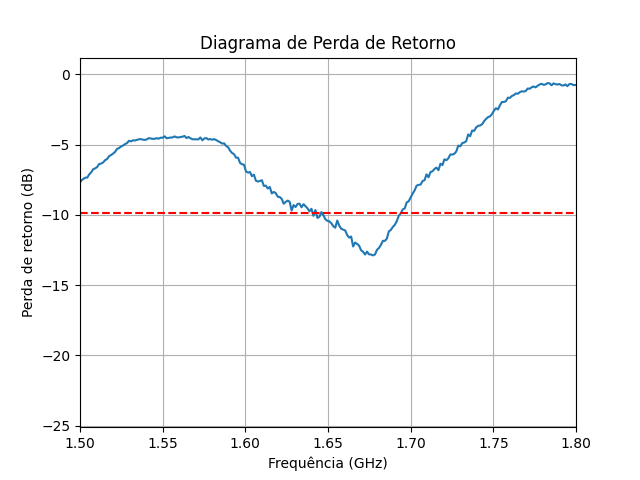
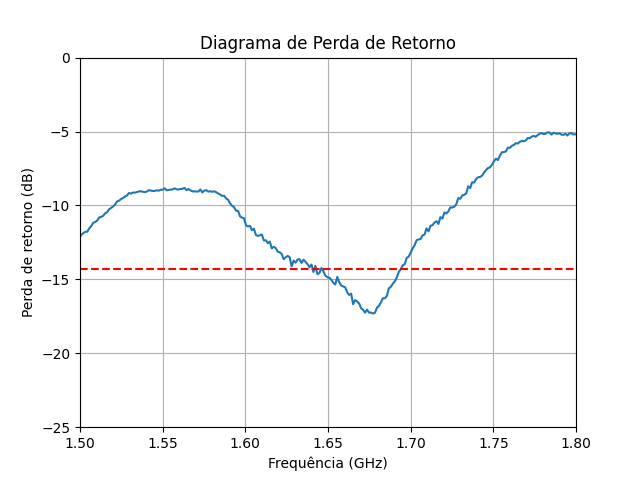
feature - added antenna results

diff --git a/Docs/TG_IAR_Dissertacao/postextual/apendices.tex b/Docs/TG_IAR_Dissertacao/postextual/apendices.tex
@@ -58,5 +58,155 @@ Em 8:28, novamente o \textit{wrap} do azimute é demonstrado ao desengajar um si
 Em 8:45, é possível perceber o que ocorre quando há uma interrupção no rastreio em uma região onde a trajetória sofre grande aceleração (por estar próxima ao zênite), mostrando que o sistem diverge rapidamente da rota original, tanto em azimute quanto em elevação.
 O sistema realiza mais um retorno à posição inicial em 9:39 e permanece por mais tempo sem receber dados, posicionado com valores de azimute e elevação igual a zero e em 10:08 o sistema é completamente desligado das informações do aplicativo até o vídeo terminar.
 
+% ----------------------------------------------------------
+\chapter{Levantamento do Parâmetros do Filtro SAWBird+ GOES}\label{cap:apendice_filtro_saw}
+% ----------------------------------------------------------
+Segundo a folha de dados do filtro SAWBird+ GOES \cite{nooelec_sawbird_goes}, seu ganho máximo é da faixa de $38 \text{ dB}$ em $1694 \text{ MHz}$ com uma potência máxima de saída de $20 \text{ dBm}$ e uma largura de banda de $70 \text{ MHz}$.
+Sabendo disso, foi utilizado um gerador de RF configurado para a frequência de $1,7 \text{ GHz}$ e amplitude de $-25 \text{ dBm}$. Para testar que o gerador estava com a configuração correta em sua saída, foi utilizado um analisador de espectro para medir a potência recebida.
+Com a validação da configuração do experimento correta, com amplitude de $-25,2 \text{ dBm}$ (visto na Figura {\ref{fig:saw_gerador_conec_direta_visor}}), o filtro SAW foi conectado na linha de transmissão (vide Figura \ref{fig:setup_filtro_desligado_total}).
+Assim como o esperado, o filtro desligado faz com que o sinal passante não seja muito maior que o piso de ruído do sistema, porém com uma pequena passagem do sinal ainda visível (vide Figura \ref{fig:setup_filtro_desligado}).
+
+O amplificador é então ligado através de sua entrada USB-C para verficar o ganho de seu circuito ativo (Figura \ref{fig:setup_filtro_ligado}).
+É esperado um ganho próximo ao teórico, calculado pela diferença entre a potência de entrada com o filtro ligado e com a saída do gerador.
+Para o experimento, a saída do filtro ativo tem o ganho de $12,6 \text{ dB}$ (vide Figura \ref{fig:setup_filtro_ligado_visor}), fazendo com que o ganho total seja de $G_{dB} = 12,6\text{ dBm} - (-25\text{ dBm}) = 37,5 \text{ dB}$, que é próximo do valor máximo descrito na folha de dados.
+
+Para o cálculo da banda de passagem, foi alterada a frequência do gerador até encontrar uma região que tenha um ganho de $-3 \text{ dB}$ abaixo do ganho máximo do sistema, que seria aproximadamente $9,6 \text{ dBm}$.
+A região equivalente à banda inferior foi encontrada quando a frequência estava por volta de $1653 \text{ MHz}$ (vide Figura \ref{fig:filtro_saw_banda_baixa}), enquanto a maior frequência da banda foi encontrada em $1724 \text{ MHz}$ (conforme observado na Figura \ref{fig:filtro_saw_banda_alta}).
+A largura de banda do filtro é calculada como sendo de $BW = 1724 - 1653 = 71 \text{ MHZ}$, que é bem próxima da banda estabelecida pela folha de dados. Além disso, é possível determinar a frequência central do filtro como sendo de $f_{c} = \frac{1724+1653}{2} = 1688,5 \text{ MHz}$, estando bem próximo à frequência especificada.
+
+Assim, é possível dizer que o filtro está se comportando de maneira nominal aos parâmetros designados pela empresa fabricante, garantindo que este funcione de acordo com o esperado.
+
+\begin{figure}[htbp]
+    \centering
+    \includegraphics[width=1\textwidth]{figs/conec_direta_gerador_visor.jpeg}
+    \caption{Foto do sinal observado no analisador de espectro quando o gerador foi conectado diretamente à entrada.}
+    \legend{Fonte: Autor(2026)}
+    \label{fig:saw_gerador_conec_direta_visor}
+\end{figure}
+\begin{figure}[htbp]
+    \centering
+    \includegraphics[width=1\textwidth]{figs/setup_filtro_desligado_total.jpeg}
+    \caption{Configuração de gerador, analisador e filtro SAW desligado.}
+    \legend{Fonte: Autor(2026)}
+    \label{fig:setup_filtro_desligado_total}
+\end{figure}
+\begin{figure}[htbp]
+    \centering
+    \includegraphics[width=1\textwidth]{figs/setup_filtro_desligado.jpeg}
+    \caption{Medição do sistema com o filtro SAW desligado.}
+    \legend{Fonte: Autor(2026)}
+    \label{fig:setup_filtro_desligado}
+\end{figure}
+\begin{figure}[htbp]
+    \centering
+    \includegraphics[width=1\textwidth]{figs/setup_amplificador_ligado.jpeg}
+    \caption{Filtro ligado por USB-C.}
+    \legend{Fonte: Autor(2026)}
+    \label{fig:setup_filtro_ligado}
+\end{figure}
+\begin{figure}[htbp]
+    \centering
+    \includegraphics[width=1\textwidth]{figs/visor_amplificador_ligado.jpeg}
+    \caption{Medição para o amplificador ligado em $1,7 \text{ GHz}$.}
+    \legend{Fonte: Autor(2026)}
+    \label{fig:setup_filtro_ligado_visor}
+\end{figure}
+\begin{figure}[htbp]
+    \centering
+    \includegraphics[width=1\textwidth]{figs/filtro_banda_baixa.jpeg}
+    \caption{Medição para o amplificador ligado para sua banda inferior, de $1653 \text{ MHz}$.}
+    \legend{Fonte: Autor(2026)}
+    \label{fig:filtro_saw_banda_baixa}
+\end{figure}
+\begin{figure}[htbp]
+    \centering
+    \includegraphics[width=1\textwidth]{figs/filtro_banda_alta.jpeg}
+    \caption{Medição para o amplificador ligado para sua banda superior, de $1724 \text{ MHz}$.}
+    \legend{Fonte: Autor(2026)}
+    \label{fig:filtro_saw_banda_alta}
+\end{figure}
+% ----------------------------------------------------------
+\chapter{Levantamento do Padrão de Radiação da Antena Helicone}\label{cap:apendice_teste_diagrama radiação}
+% ----------------------------------------------------------
+Para o teste realizado, os equipamentos utilizados foram: gerador de frequência de RF; analisador de espectro; antena helicone (confeccionada para este trabalho); antena Yagi projetada em uma PCB; e filtro SAWBird+ GOES.
+Como ferramentas, foram utilizados um tripé de câmera, um barbante, e um transferidor. As conexões foram feitas utilizando cabos SMA-SMA e adaptadores SMA-N para o encaixe nos equipamentos. Todos os equipamentos podem ser vistos na Figura \ref{fig:todos_equipamentos_diagrama_radiacao}.
+
+O gerador de RF foi configurado para a frequência de $1,7 \text{ GHz}$ e potência de $-30 \text{ dBm}$ (vide Figura \ref{fig:config_gerador_filtro}). O amplificador foi ligado para amplificar a saída do sinal, pois o gerador não estava mantendo sua saída constante acima de $-20 \text{ dBm}$.
+Os suportes das antenas foram ajustados para se manterem no mesmo plano horizontal, garantindo que a seção do plano vertical da antena estivesse centralizada na antena de teste (conforme demonstrado na Figura \ref{fig:alinhamento_antena_plano_horizontal}).
+Após isso, foi feita uma medição desde a região mais distante da antena até o dipolo da antena Yagi (\ref{fig:medicao_dist_antenas}). A distância entre os elementos é de aproximadamente $57 \text{ cm}$, que é maior que a distância de campo distante discutida no Capítulo \ref{sec:antena}.
+
+O experimento iniciou na medida de $90^{\circ}$ do transferidor (que posteriormente foi subtraída do ângulo medido).
+A movimentação horária da Yagi em relação à direção traseira pra a frontal da helicone representa seu lado direito, equanto a movimentação anti-horária representa seu lado esquerdo.
+O lado direito foi considerado como ter angulação negativa, enquanto o lado esquerdo possui angulação positiva. Os resultados obtidos podem ser vistos na Tabela \ref{tab:dados_diag_rad}.
+A diferença entre as medições podem ter sido geradas pela redução da distância da corda do lado direito para conseguir efetuar as medições próximas à parede do laboratório.
+
+\begin{figure}[htbp]
+    \centering
+    \includegraphics[width=1\textwidth]{figs/setup_completo_diagrama_rad.jpeg}
+    \caption{Imagem com todos os equipamentos utilizados para o teste.}
+    \legend{Fonte: Autor(2026)}
+    \label{fig:todos_equipamentos_diagrama_radiacao}
+\end{figure}
+\begin{figure}[htbp]
+    \centering
+    \includegraphics[width=1\textwidth]{figs/gerador_visor_teste_antena.jpeg}
+    \caption{Configuração do gerador para o levantamento do diagrama de radiação.}
+    \legend{Fonte: Autor(2026)}
+    \label{fig:config_gerador_filtro}
+\end{figure}
+\begin{figure}[htbp]
+    \centering
+    \includegraphics[width=1\textwidth]{figs/alinhamento_vertical_antenas.jpeg}
+    \caption{Alinhamento das antenas no mesmo plano horizontal.}
+    \legend{Fonte: Autor(2026)}
+    \label{fig:alinhamento_antena_plano_horizontal}
+\end{figure}
+\begin{figure*}[htbp]
+        \subfloat[Início da medição da distância entre as antenas]{%
+            \includegraphics[width=0.8\linewidth]{figs/inicio_medicao_antena.jpeg}%
+            \label{subfig:inicio_medicao}%
+        }\\
+        \subfloat[Final da medição da distância entre as antenas]{%
+            \includegraphics[width=0.8\linewidth]{figs/fim_medicao_antena.jpeg}%
+            \label{subfig:fim_medicao}%
+        }
+        \caption{Medição da distância entre as antenas, de seu início na Figura \ref{subfig:inicio_medicao} até o final na Figura \ref{subfig:fim_medicao}.}
+        \legend{Fonte: Autor (2026)}
+        \label{fig:medicao_dist_antenas}
+\end{figure*}
+
+\begin{table}[htbp]
+\centering
+\caption{Comparação entre \texttt{Lado Esquerdo} e \texttt{Lado Direito} com passo de $\pm5^\circ$.}
+\begin{tabular}{rrrr}
+\toprule
+\textbf{Ângulo ($^\circ$)} & \textbf{\texttt{Lado Esquerdo}} & \textbf{\texttt{Lado Direito}}\\
+\midrule
+0  & $-26.5$ & $-24.9$ \\
+$\pm5$  & $-26.8$ & $-25.3$ \\
+$\pm10$ & $-27.0$ & $-25.6$ \\
+$\pm15$ & $-27.4$ & $-26.4$ \\
+$\pm20$ & $-27.3$ & $-29.2$ \\
+$\pm25$ & $-31.5$ & $-29.5$ \\
+$\pm30$ & $-33.5$ & $-32.3$ \\
+$\pm35$ & $-32.4$ & $-31.6$ \\
+$\pm40$ & $-36.7$ & $-37.2$ \\
+$\pm45$ & $-43.1$ & $-46.2$ \\
+$\pm50$ & $-44.4$ & $-44.0$ \\
+$\pm55$ & $-49.3$ & $-41.1$ \\
+$\pm60$ & $-49.8$ & $-45.2$ \\
+$\pm65$ & $-46.0$ & $-45.3$ \\
+$\pm70$ & $-50.1$ & $-43.3$ \\
+$\pm75$ & $-57.1$ & $-44.3$ \\
+$\pm80$ & $-43.7$ & $-44.5$ \\
+$\pm85$ & $-46.7$ & $-48.8$ \\
+$\pm90$ & $-47.4$ & $-45.4$ \\
+$\pm110$ & $-55.2$ & $-50.2$ \\
+\bottomrule
+\end{tabular}
+\label{tab:dados_diag_rad}
+\end{table}
+
+
 \end{apendicesenv}
 % ---

diff --git a/Docs/TG_IAR_Dissertacao/capitulos/resultados.tex b/Docs/TG_IAR_Dissertacao/capitulos/resultados.tex
@@ -56,9 +56,49 @@ O casamento de impedância é importante para permitir a máxima transferência 
 \section{Caracterização da Antena e do Filtro}\label{sec:carac_antena}
 
 Após a montagem da antena feita na Seção \ref{sec:estrutura}, é de grande importância realizar a caracterização da antena para garantir que ela está funcionando corretamente.
-Para isso, foram utilizados dois equipamentos para a determinação: um Anali
-Essa antena é movida ao redor da helicone a uma distância fixa utilizando uma corda para manter a distância constante e um transferidor para marcar o ângulo da medição. Então, é realizado 
+Para isso, foram utilizados dois equipamentos para a determinação: um analisador de espectro, um gerador de frequência, e um analisador de redes vetorial (VNA).
+Com o analisador e o gerador, foi possível caracterizar o Filtro SAW, com o experimento descrito no Apêndice \ref{cap:apendice_filtro_saw}. O resultado é um filtro de ganho $37,5 \text{ dB}$ e largura de banda $71 \text{ MHz}$ em torno de $1688,5 \text{ MHz}$
 
+Iniciou-se a caracterização da antena a partir da sua perda de retorno (parâmetro $S_{11}$). A escolha de iniciar o teste pela perda de retorno foi intencional para possibilitar a calibração da antena para a faixa inserida.
+A antena foi conectada ao VNA calibrado e foi verificada a perda de retorno da antena. Inicialmente, a perda de retorno para a frequência de $1,7\text{ GHz}$ se encontrava por volta de $-11 \text{ dB}$ e a maior atenuação se encontrava por volta de $1,9\text{ GHz}$.
+Pela discussão feita no Capítulo \ref{sec:antena}, essa característica indicava que a espira estava com uma circunferência muito pequena. Após o ajuste na antena helicoidal, foi possível obter o parâmetro observado na Figura \ref{fig:antena_s1p}.
+
+\begin{figure}[H]
+    \centering
+    \includegraphics[width=0.8\textwidth]{figs/s1p_antenna.png}
+    \caption{Parâmetros $S_{11}$ da antena levantados pelo VNA na faixa de $1,5 \text{ GHz}$ a $1,8 \text{ GHz}$.}
+    \legend{Fonte: Autor (2026)}
+    \label{fig:antena_s1p}
+\end{figure}
+
+Os resultados obtidos demonstam que boa parte do sinal se encontra abaixo da linha de $-15\text{ dB}$, com o ponto de mínimo de $-17,316\text{ dB}$ e largura de banda abaixo de $-14,316\text{ dB}$.
+A perda de retorno pode ser calculada como sendo $RL = 14,316\text{ dB}$ e a relação de onda estacionária é de $ROE = 1,476$ para toda a largura de banda da antena de $514\text{ MHz}$.
+É importante ressaltar que a região de operação da antena (de $1,7\text{ GHz}$) ficou um pouco fora da faixa esperada, podendo ter a sua faixa melhorada com ajustes mais finos à antena.
+Há uma região abaixo de $1,4\text{ GHz}$ e outra acima de $1,9\text{ GHz}$ que possuem uma perda de retorno maior que a da região de interesse, porém mairoes ajustes à antena não foram possíveis durante o teste.
+O equipamento da faculdade estava em manutenção e foi utilizado um VNA pessoal de outro professor que estava com uma agenda curta.
+Houve apenas o tempo de uma hora para os ajustes e não foi possível obter um resultado mais satisfatório com o tempo disponível.
+Em trabalhos futuros, é necessário revisitar o teste para o parâmetro $S_{11}$ para obter um melhor resultado na confecção da antena.
+
+\begin{figure}[H]
+    \centering
+    \includegraphics[width=0.8\textwidth]{figs/diag_rad_antena.png}
+    \caption{Diagrama de radiação da antena normalizado a partir dos dados da Tabela \ref{tab:dados_diag_rad}.}
+    \legend{Fonte: Autor (2026)}
+    \label{fig:diag_rad_antena}
+\end{figure}
+
+Para o experimento do padrão de radiação, o experimento foi realizado de acordo com o Apêndice \ref{cap:apendice_teste_diagrama radiação}.
+Ao normalizar os dados da Tabela \ref{tab:dados_diag_rad} em relação aos seus valores para $0^{\circ}$, é possível obter o diagrama de radiação para a antena, como visto na Figura \ref{fig:diag_rad_antena}.
+O feixe de meia potência para a antena é de $40,04^{\circ}$, o que é mais do que suficiente para a necessidade do trabalho atual.
+
+Uma região peculiar do diagrama de radiação é a radiação observada próxima de $40^{\circ}$ e $320^{\circ}$, pois não há uma resolução grande o suficiente para determinar se é um lóbulo secundário ou ainda faz parte do lóbulo principal.
+Essa região difere um pouco do restante dos lóbulos secundários (abaixo de $315^{\circ}$ e acima de $50^{\circ}$) e não há como definir claramente o que gerou esse comportamento observado nos dois lados da antena.
+
+Outra região de interesse é a dos lóbulos secundários próximos a $90^{\circ}$ e $270^{\circ}$, pois parece haver uma interferência do plano terra cônico da helicone, ou uma difração com a borda deste mesmo plano.
+As regiões após esses ângulos já estão completamente cobertas pelo plano terra, fazendo com que a medição seja muito baixa.
+Isso mostra que o plano terra cônico funciona em limitar a recepção de sinal vindo da região traseira da antena.
+
+Assim, é possível observar que a caracterização da antena ocorreu de forma satisfatória. Entretanto, é necessário refazer os testes com ajustes mais refinados para garantir que a antena helicone opere em seu ponto ótimo.
 
 \section{Levantamento dos Parâmetros do Filtro $\alpha$-$\beta$-$\gamma$}
 

diff --git a/Docs/TG_IAR_Dissertacao/capitulos/Metodologia.tex b/Docs/TG_IAR_Dissertacao/capitulos/Metodologia.tex
@@ -138,7 +138,7 @@ A região de campo próximo (\textit{near-field}) é definida pela Equação \re
     R_{ff} > 2\frac{D^2}{\lambda} \label{eq:far_field}
 \end{align}
 Em seguida, há a disância da antena onde se encontra a região de Fresnel (Equação \ref{eq:region_Fresnel}), onde a distribuição angular do campo ainda varia com a distância.
-Por último, há a região do campo distante (\textit{far-field} ou região de Fraunhofer), em que o campo angular da antena independe da distância da antena.
+Por último, há a região do campo distante (\textit{far-field} ou região de Fraunhofer), em que o campo angular da antena independe da distância da antena (definido pela Equação \ref{eq:far_field}).
 Para a antena helicoidal, a região de campo próximo é de $R_{nf} \leq 10,26\text{ cm}$, e a região de campo distante é de $R_{ff} > 32,38\text{ cm}$.
 
 \begin{figure}[htbp]
@@ -152,7 +152,7 @@ Para a antena helicoidal, a região de campo próximo é de $R_{nf} \leq 10,26\t
 O diagrama do padrão de radiação deve ser levantado a partir de uma distância maior que o campo distante da antena de interesse a partir de outra antena operando na mesma frequência.
 Esse diagrama pode ser feito de forma experimental com a antena de interesse e outra antena direcional. Para o experimento realizado com a antena do trabalho, foi utilizada uma antena Yagi projetada em uma placa de circuito impresso (como visto na Figura \ref{fig:setup_antena}).
 Foi considerado que a antena helicone possui um padrão simétrico em relação à sua direção axial, como corroborado por outras bibliografias como Balanis \citeyear{balanis2016} e Vallado \citeyear{vallado2013}.
-Portanto, razoável considerar que o sinal levantado no plano polar da antena é uma boa representação do sistema para a aplicação desejada.
+Portanto, razoável considerar que o sinal levantado no plano vertical da antena é uma boa representação do sistema para a aplicação desejada.
 
 Para o experimento, a antena de teste é utilizada como transmissora ligada ao gerador e a Yagi faz o papel de receptora, embora essa ordem possa ser alterada sem comprometimentos ao teste.
 Um gerador de RF configurado para \SI{1,7}{\giga\hertz} é conectado à antena transmissora e sua potência é mantida constante durante o teste. Então, a antena auxiliar é deslocada ao redor da antena em passos angulares pequenos (a cada $5^{\circ}$) para obter uma boa resolução do padrão de radiação da antena.
@@ -173,7 +173,6 @@ A Figura \ref{fig:helical_rad_pttrn} é o exêmplo de uma antena helicoidal com 
 
 Uma outra região de interesse é nomeada como o feixe de meia potência, que é a região onde o lóbulo principal consegue irradiar apenas metade da potência máxima normalizada. Na escala logarítmica, essa região equivale ao valor de $-3\text{ dB}$.
 O feixe de meia potência determina a posição angular na qual a antena pode ser utilizada com o apontamento direcionado ao seu ganho ótimo \cite{balanis2016}. Para o trabalho em questão, é necessário manter o satélite rastreado dentro da região do feixe da antena para manter uma boa recepção de sinal.
-
 
 \section{Sistema Embarcado}\label{sec:sistema_embarcado}
 Com o intuito de manter o servidor de controle do rotor embarcado no pedestal, foi utilizado um microcontrolador de modelo de desenvolvimento ESP32 WROOM-32, observado no lado esquerdo da Figura \ref{fig:embarcados_pecas}, e com seu manual técnico disponível na referência \cite{espressif2026esp32tech}.

diff --git a/Testes Matematicos/analise_parametros_s1p.py b/Testes Matematicos/analise_parametros_s1p.py
@@ -26,13 +26,15 @@ I = np.array(I)**2
 mag_2 = (R+I)**(1/2)
 mag_log = 10*np.log(mag_2)
 freq_filter = ((freq>=GRAPH_LIMITS[0]) & (freq<=GRAPH_LIMITS[1]))
-mag_log = mag_log-max(mag_log)
+mag_log = mag_log
 
 import matplotlib.pyplot as plt
 
 plt.plot(freq,mag_log)
+print("Largura de banda:",min(mag_log[freq_filter])+3)
 plt.axhline(min(mag_log[freq_filter])+3,linestyle='--',color='r')
-plt.xlim(GRAPH_LIMITS)
+# plt.xlim(GRAPH_LIMITS)
+plt.ylim(-25,0)
 plt.title("Diagrama de Perda de Retorno")
 plt.xlabel("Frequência (GHz)")
 plt.ylabel("Perda de retorno (dB)")
